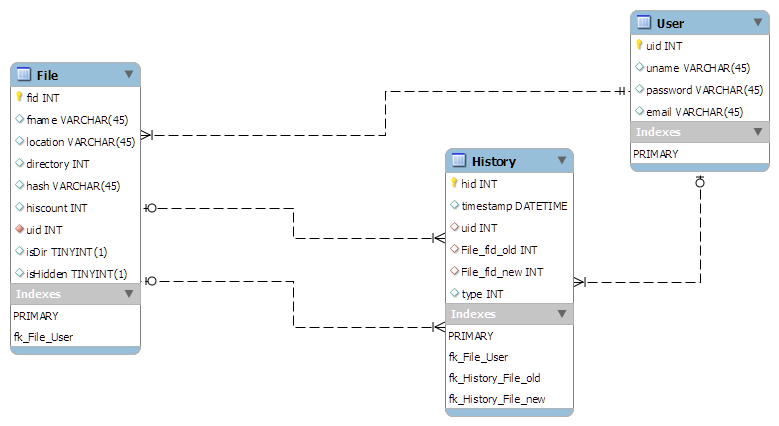
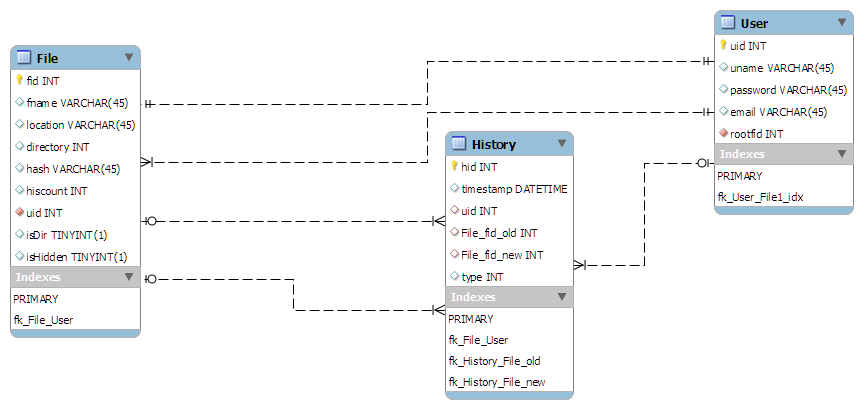
added rootdir in User table

diff --git a/src/main/java/cs5412/project/distributed_file_system/dao/jdbc/FileJdbcDAO.java b/src/main/java/cs5412/project/distributed_file_system/dao/jdbc/FileJdbcDAO.java
@@ -34,37 +34,38 @@ public class FileJdbcDAO implements FileDAO {
 	private static final class FileMapper implements RowMapper<File> {
 		public File mapRow(ResultSet rs, int rowNum) throws SQLException {
 			File file = new File();
-			file.setfId(rs.getInt("fid"));
+			file.setFid(rs.getInt("fid"));
 			file.setName(rs.getString("fname"));
 			file.setLocation(rs.getString("location"));
-			file.setParentDir(rs.getString("directory"));
+			file.setParentDir(rs.getInt("directory"));
 			file.setHash(rs.getString("hash"));
-			file.setVersion(rs.getInt("version"));
-			file.setuId(rs.getInt("uid"));
-			file.setDir(rs.getBoolean("uid"));
+			file.setReferenceCount(rs.getInt("hiscount"));
+			file.setUid(rs.getInt("uid"));
+			file.setDir(rs.getBoolean("isDir"));
+			file.setHidden(rs.getBoolean("isHidder"));
 			return file;
 		}
 	}
 
 	public boolean createHistory(int uid, int fidold, int fidnew, int type) {
 		try {
-			//create
+			// create
 			if (type == 1) {
 				this.jdbcTemplate
 						.update("insert into History (timestamp, uid, File_fid_new, type) values (?, ?, ?, ?)",
 								new Object[] { new Date(), uid, fidnew, type });
-			//remove
+				// remove
 			} else if (type == 2) {
 				this.jdbcTemplate
 						.update("insert into History (timestamp, uid, File_fid_old, type) values (?, ?, ?, ?)",
 								new Object[] { new Date(), uid, fidold, type });
-			//update
+				// update
 			} else if (type == 3) {
 				this.jdbcTemplate
 						.update("insert into History (timestamp, uid, File_fid_old, File_fid_new, type) values (?, ?, ?, ?, ?)",
 								new Object[] { new Date(), uid, fidold, fidnew,
 										type });
-			//
+				//
 			} else if (type == 4) {
 				this.jdbcTemplate
 						.update("insert into History (timestamp, uid, type) values (?, ?, ?)",
@@ -78,6 +79,12 @@ public class FileJdbcDAO implements FileDAO {
 
 	@Override
 	public int createFile(File file) {
+		int fid = createFileOnly(file);
+		createHistory(file.getUid(), 0, fid, 1);
+		return fid;
+	}
+
+	public int createFileOnly(File file) {
 		// fid is an autoincrement integer
 		// KeyHolder keyHolder = new GeneratedKeyHolder();
 		// this.jdbcTemplate
@@ -101,15 +108,17 @@ public class FileJdbcDAO implements FileDAO {
 							INSERT_SQL, new String[] { "fid" });
 					ps.setString(1, _file.getName());
 					ps.setString(2, _file.getLocation());
-					ps.setString(3, _file.getParentDir());
+					ps.setInt(3, _file.getParentDir());
 					ps.setString(4, _file.getHash());
-					ps.setInt(5, _file.getVersion());
-					ps.setInt(6, _file.getuId());
+					ps.setInt(5, _file.getReferenceCount());
+					ps.setInt(6, _file.getUid());
 					ps.setBoolean(7, _file.isDir());
+					ps.setBoolean(8, false);
 					return ps;
 				}
 			}, keyHolder);
 			autoGeneratedKey = (Long) keyHolder.getKey();
+
 		} catch (Exception ex) {
 			return -1;
 		}
@@ -119,12 +128,15 @@ public class FileJdbcDAO implements FileDAO {
 	@Override
 	public boolean updateFile(File file) {
 		try {
-			this.jdbcTemplate
-					.update("update File set fname = ?, location=?, directory=?, hash=?, version=?, uid=?, isdir=? where fid = ?",
-							new Object[] { file.getName(), file.getLocation(),
-									file.getParentDir(), file.getHash(),
-									file.getVersion(), file.getuId(),
-									file.isDir(), file.getfId() });
+			//set old file invisible
+			this.jdbcTemplate.update("update File set isHidden, where fid = ?",
+					new Object[] { true, file.getFid() });
+			//create new file
+			int fid = createFileOnly(file);
+			//write transaction to history
+			createHistory(file.getUid(), file.getFid(), fid, 3);
+			//set new fid to file
+			file.setFid(fid);
 		} catch (DataAccessException e) {
 			return false;
 		}
@@ -135,7 +147,7 @@ public class FileJdbcDAO implements FileDAO {
 	public File getFileByFid(int fid) {
 		File ret = (File) this.jdbcTemplate
 				.queryForObject(
-						"select fid, fname, location, directory, hash, version, uid, isdir from File where fid = ?",
+						"select fid, fname, location, directory, hash, hiscount, uid, isdir, ishidden from File where fid = ?",
 						new Object[] { fid }, new FileMapper());
 		return ret;
 	}
@@ -143,19 +155,20 @@ public class FileJdbcDAO implements FileDAO {
 	@Override
 	public List<File> getFileByParentDir(File parentDir) {
 		List<File> files = this.jdbcTemplate
-				.query("select fid, fname, location, directory, hash, version, uid, isdir from File where directory = ?",
-						new Object[] { parentDir.getName() }, new FileMapper());
+				.query("select fid, fname, location, directory, hash, hiscount, uid, isdir, ishidden from File where directory = ?",
+						new Object[] { parentDir.getFid()}, new FileMapper());
 		return files;
 	}
 
 	@Override
 	public boolean deleteFile(File file) {
-		if (file.getfId() <= 0) {
+		if (file.getFid() <= 0) {
 			return false;
 		}
 		try {
-			this.jdbcTemplate.update("delete from File where fid = ?",
-					new Object[] { file.getfId() });
+			this.jdbcTemplate.update("update File set isHidden, where fid = ?",
+					new Object[] { true, file.getFid() });
+			createHistory(file.getUid(), file.getFid(), 0, 2);
 		} catch (DataAccessException e) {
 			return false;
 		}

diff --git a/src/main/java/cs5412/project/distributed_file_system/pojo/User.java b/src/main/java/cs5412/project/distributed_file_system/pojo/User.java
@@ -5,6 +5,7 @@ public class User {
 	private String username;
 	private String password;
 	private String email;
+	private int rootfid;
 
 	public int getUid() {
 		return uid;
@@ -36,6 +37,14 @@ public class User {
 
 	public void setEmail(String email) {
 		this.email = email;
+	}
+
+	public int getRootfid() {
+		return rootfid;
+	}
+
+	public void setRootfid(int rootfid) {
+		this.rootfid = rootfid;
 	}
 
 }
